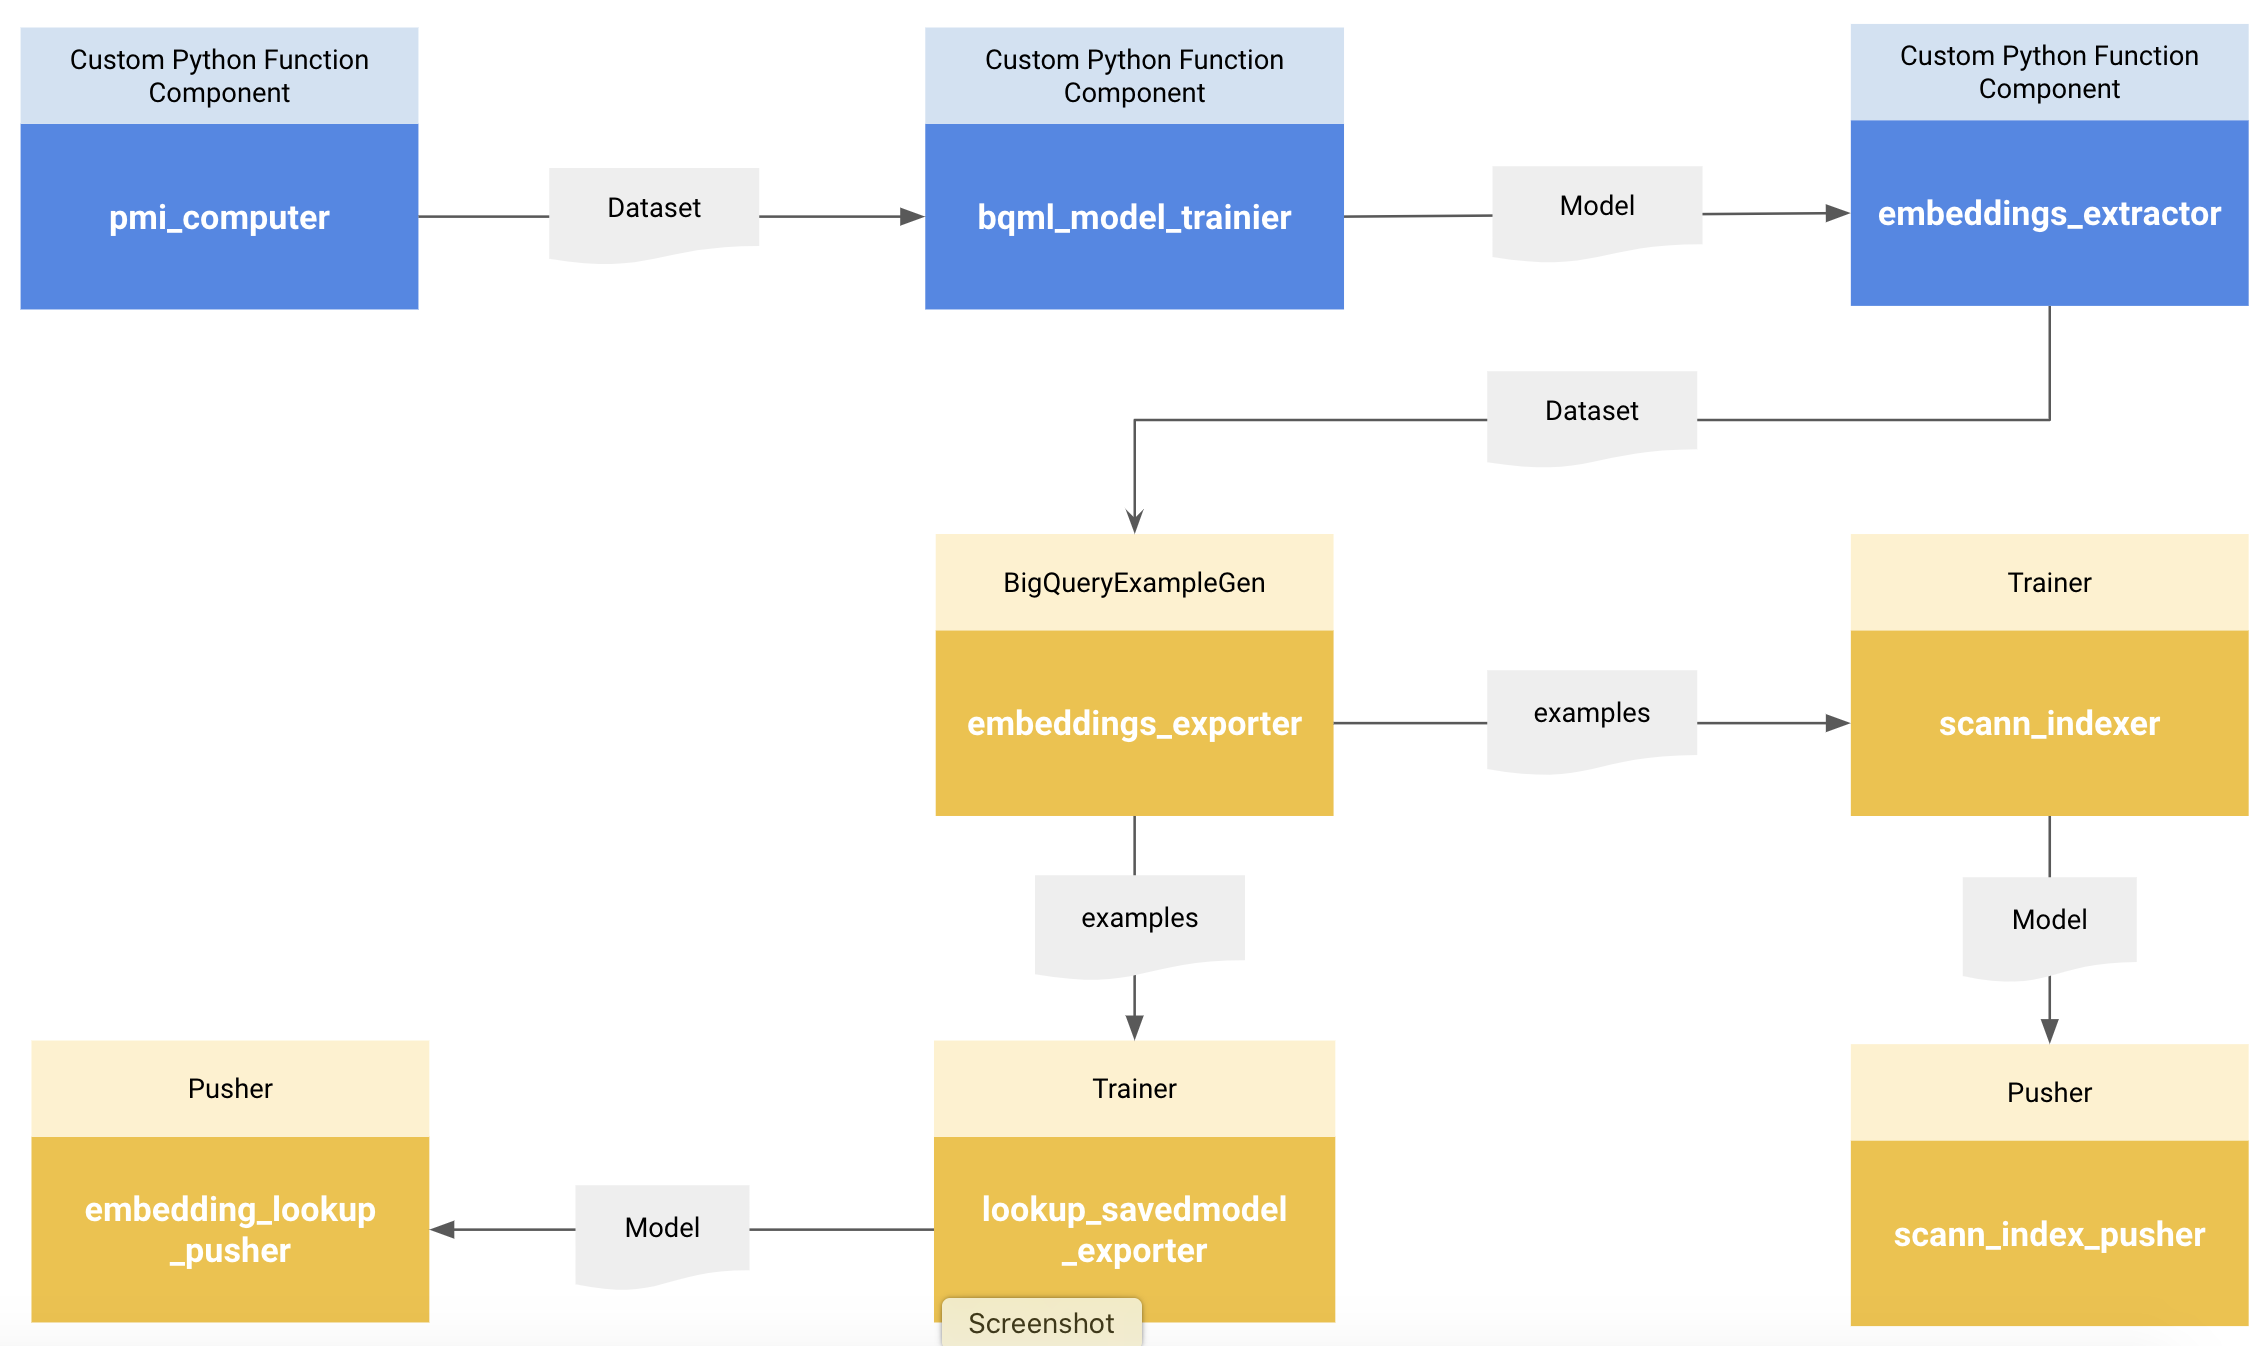
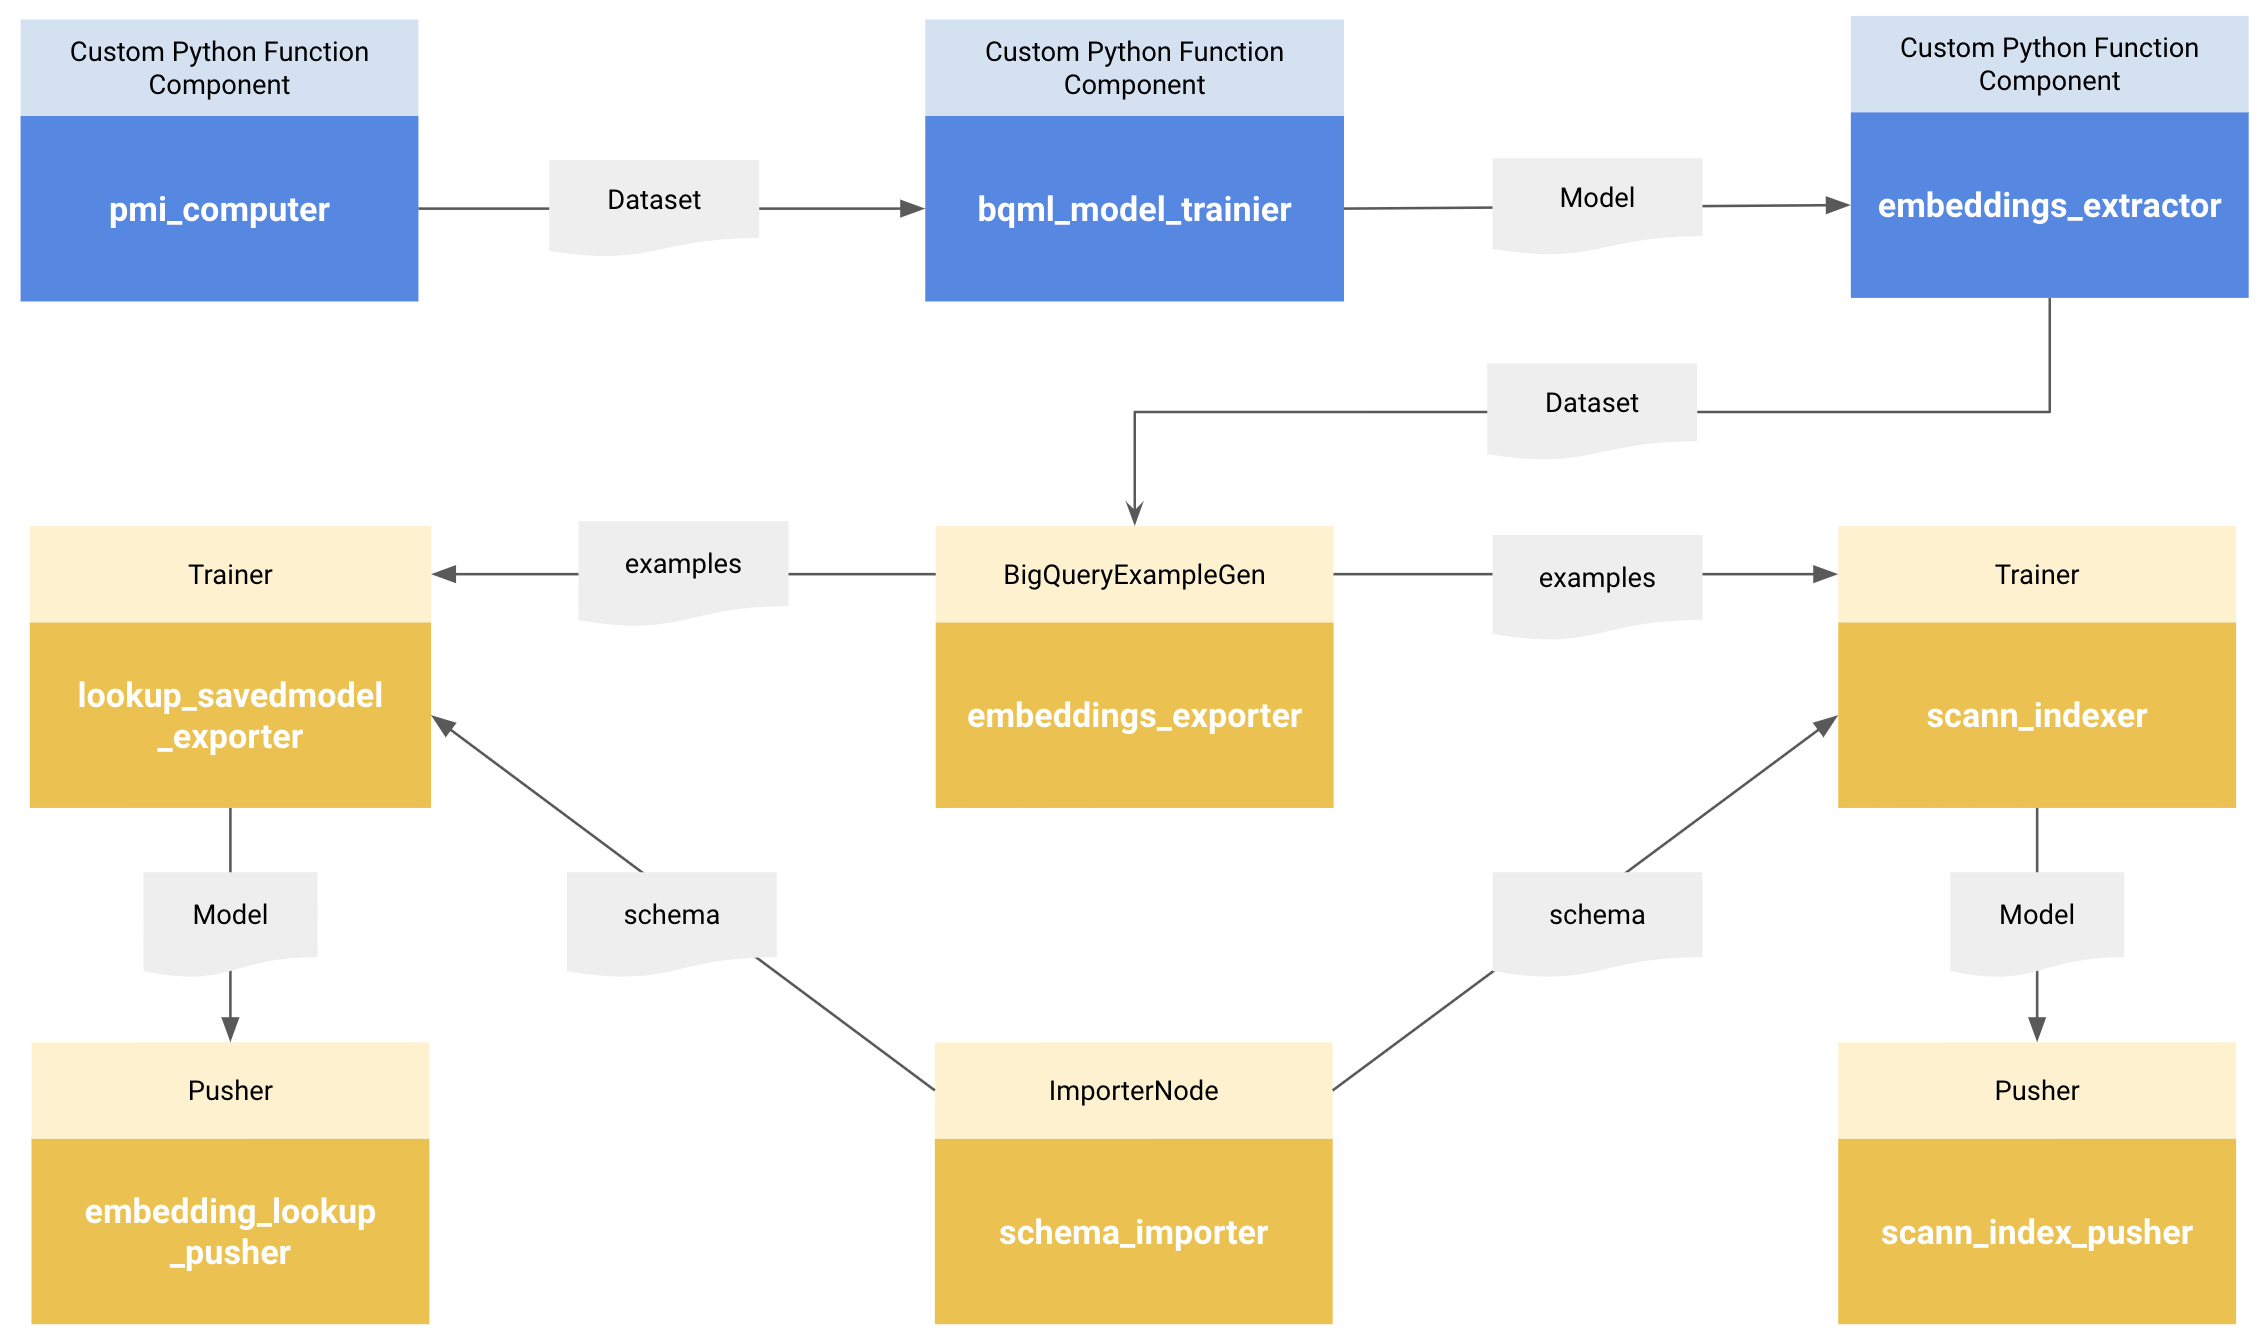
Update tfx diagram

diff --git a/retail/recommendation-system/bqml-scann/README.md b/retail/recommendation-system/bqml-scann/README.md
@@ -78,10 +78,11 @@ We provide a [TFX pipeline](tfx_pipeline) implementation to the solution, as fol
 2. Train BigQuery Matrix Factorization Model using the [Custom Python function](https://www.tensorflow.org/tfx/guide/custom_function_component) component.
 3. Extract the Embeddings from the Model to a Table using the [Custom Python function](https://www.tensorflow.org/tfx/guide/custom_function_component) component.
 4. Export the embeddings as TFRecords using the [BigQueryExampleGen](https://www.tensorflow.org/tfx/api_docs/python/tfx/extensions/google_cloud_big_query/example_gen/component/BigQueryExampleGen) component.
-5. Create an embedding lookup SavedModel using the [Trainer](https://www.tensorflow.org/tfx/api_docs/python/tfx/components/Trainer) component.
-6. Push the embedding lookp model to a model registry directory using the [Pusher](https://www.tensorflow.org/tfx/guide/pusher) component.
-7. Build the ScaNN index using the [Trainer](https://www.tensorflow.org/tfx/api_docs/python/tfx/components/Trainer) component.
-8. Push the ScaNN index to a model registry directory using [Container-based](https://www.tensorflow.org/tfx/guide/container_component) component.
+5. Import the schema fo the embeddings using the [ImporterNode](https://www.tensorflow.org/tfx/api_docs/python/tfx/components/ImporterNode) component need for the Trainer components.
+6. Create an embedding lookup SavedModel using the [Trainer](https://www.tensorflow.org/tfx/api_docs/python/tfx/components/Trainer) component.
+7. Push the embedding lookup model to a model registry directory using the [Pusher](https://www.tensorflow.org/tfx/guide/pusher) component.
+8. Build the ScaNN index using the [Trainer](https://www.tensorflow.org/tfx/api_docs/python/tfx/components/Trainer) component.
+9. Push the ScaNN index to a model registry directory using [Container-based](https://www.tensorflow.org/tfx/guide/container_component) component.
 
 ![tfx](figures/tfx.png)
 
